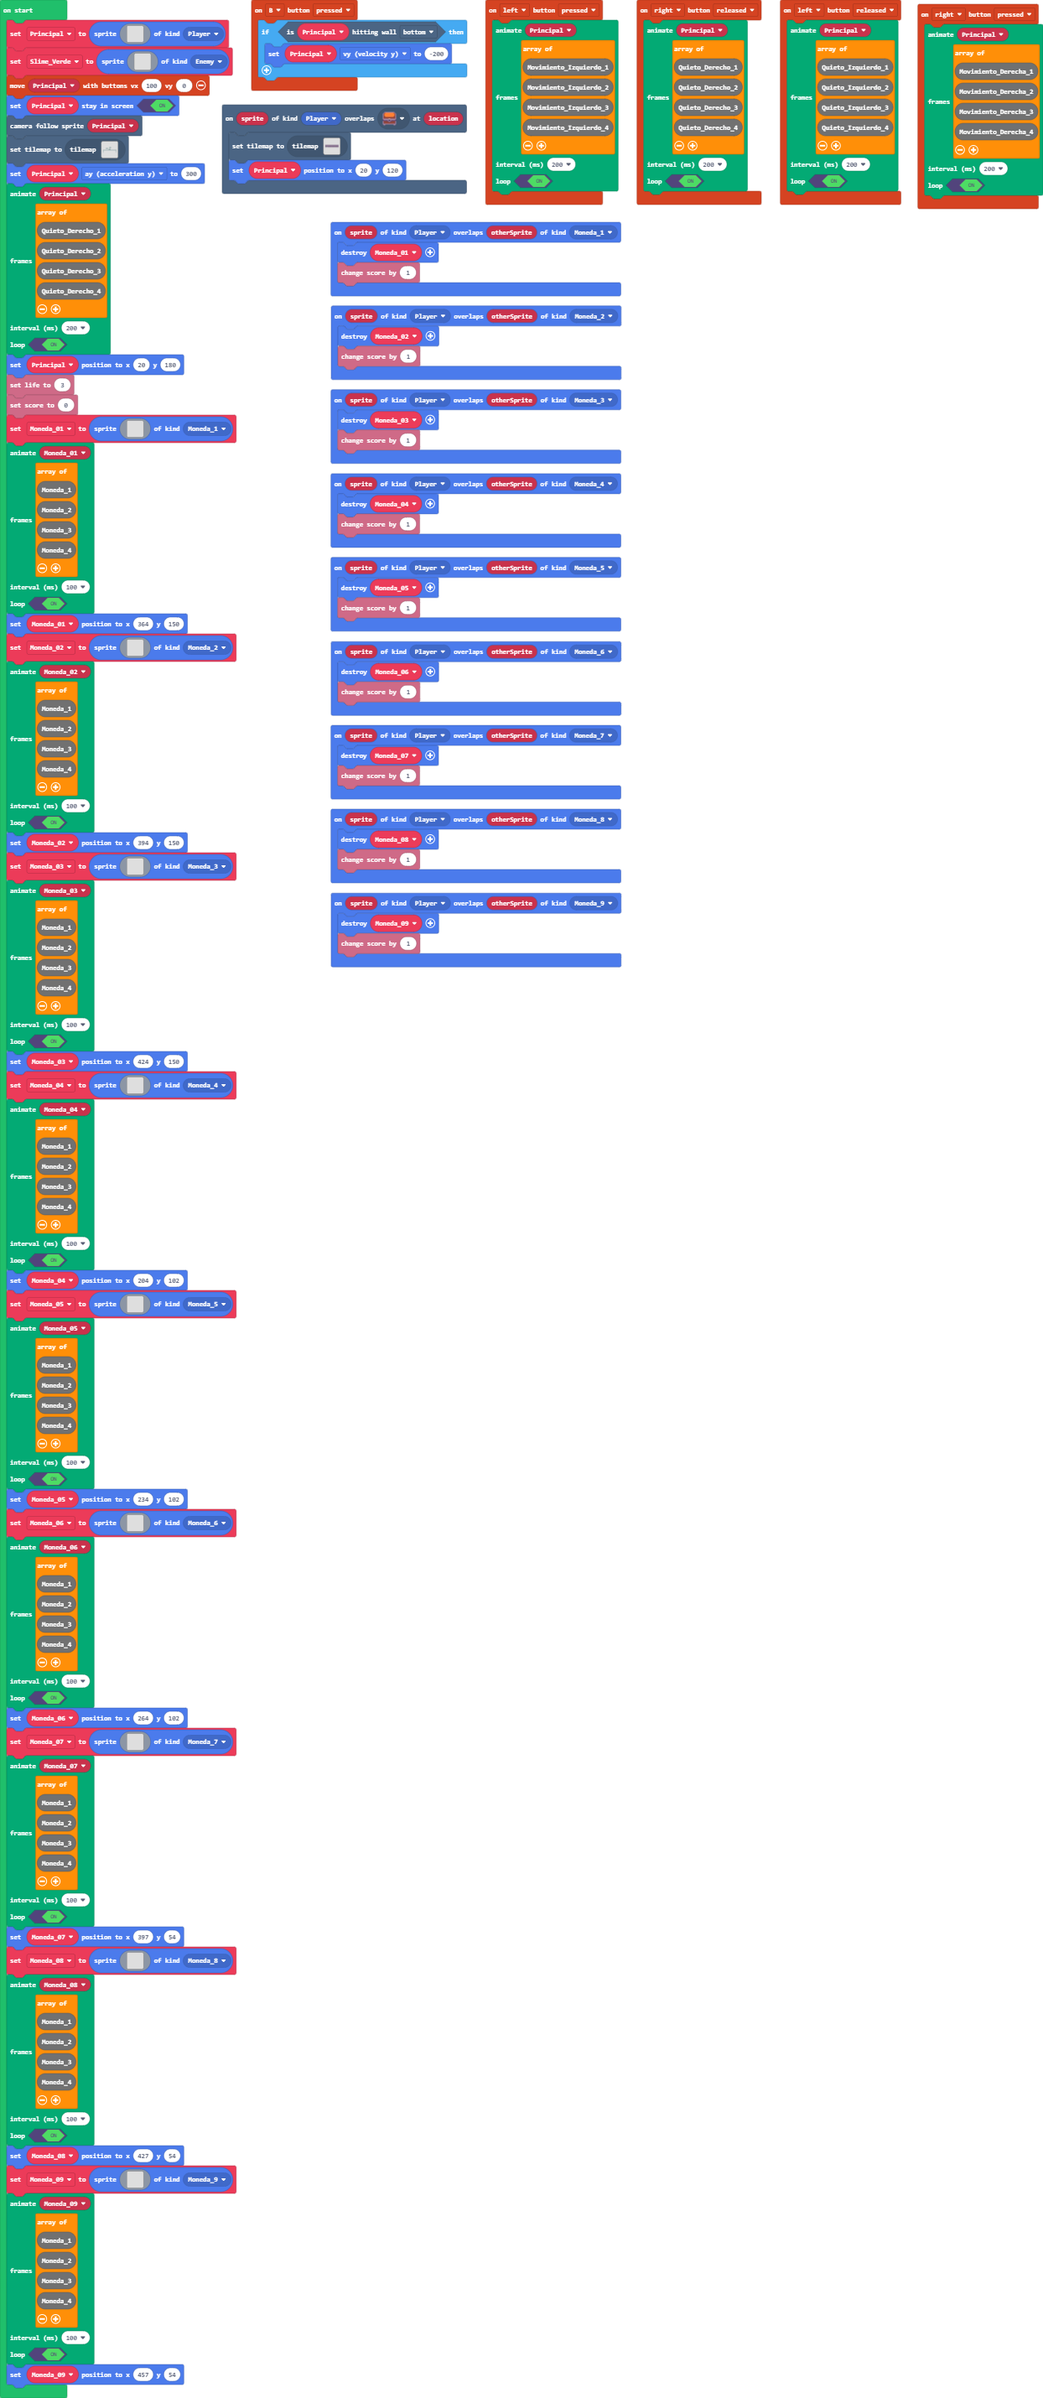
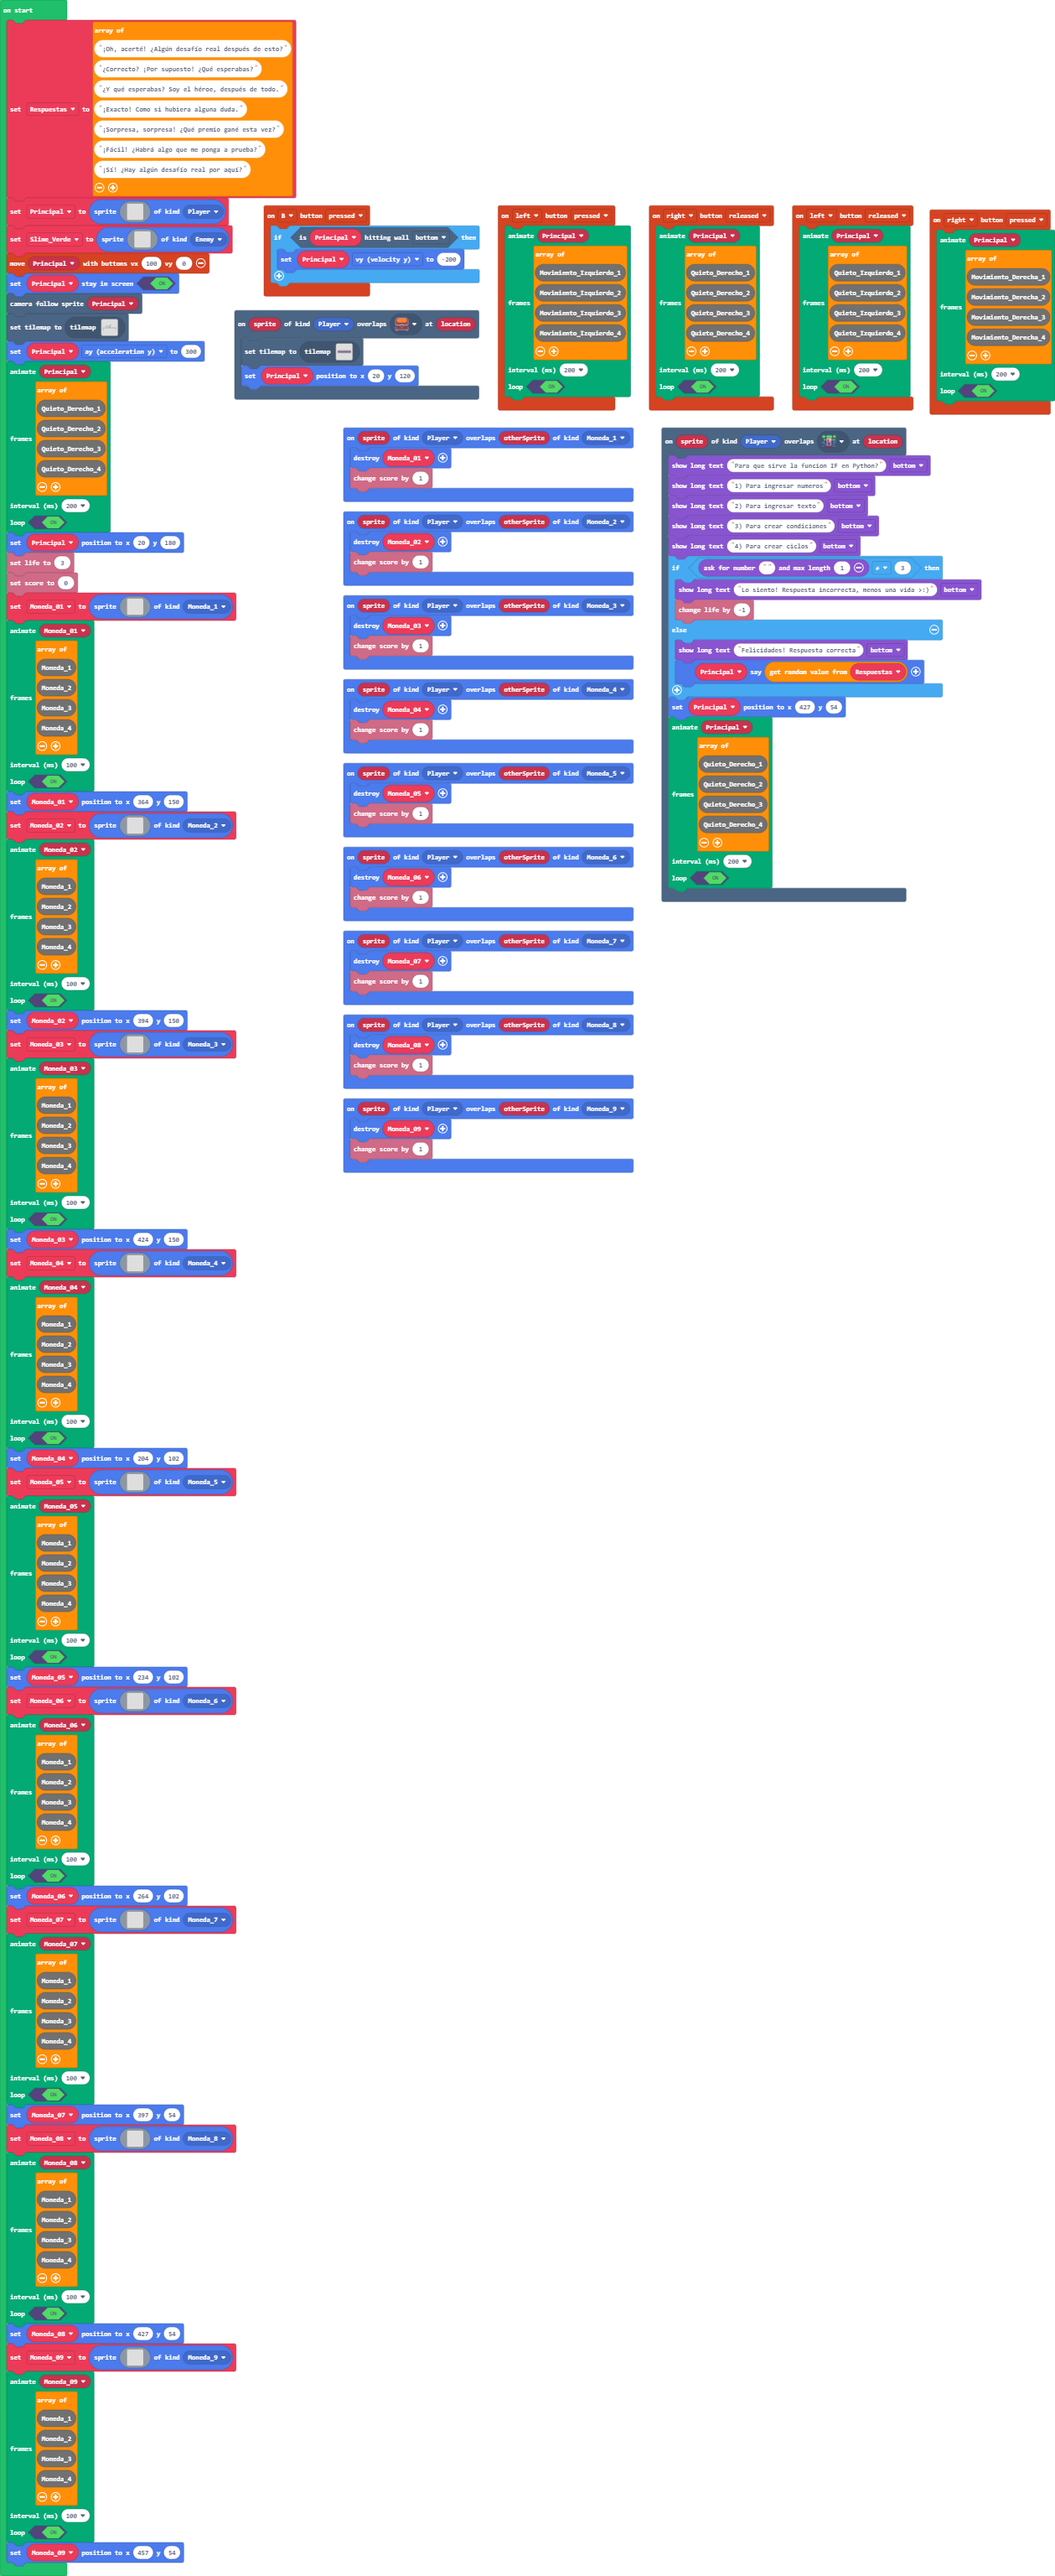
Update main.blocks, main.ts, tilemap.g.jres, tilemap.g.ts

Changed region(s): [[0.0, 0.0, 1.0, 0.9958]]

diff --git a/tilemap.g.ts b/tilemap.g.ts
@@ -179,7 +179,7 @@ namespace myTiles {
 . . . . . . . . . . . . . . . . 
 `, [myTiles.transparency16], TileScale.Sixteen);
             case "Nivel 1":
[2 lines of base64/hex data omitted]
 ..................................................
 ..................................................
 ..................................................

diff --git a/main.ts b/main.ts
@@ -14,6 +14,32 @@ controller.B.onEvent(ControllerButtonEvent.Pressed, function () {
         Principal.vy = -200
     }
 })
+scene.onOverlapTile(SpriteKind.Player, sprites.dungeon.greenSwitchUp, function (sprite, location) {
+    game.showLongText("Para que sirve la funcion IF en Python?", DialogLayout.Bottom)
+    game.showLongText("1) Para ingresar numeros", DialogLayout.Bottom)
+    game.showLongText("2) Para ingresar texto", DialogLayout.Bottom)
+    game.showLongText("3) Para crear condiciones", DialogLayout.Bottom)
+    game.showLongText("4) Para crear ciclos", DialogLayout.Bottom)
+    if (game.askForNumber("", 1) != 3) {
+        game.showLongText("Lo siento! Respuesta incorrecta, menos una vida >:)", DialogLayout.Bottom)
+        info.changeLifeBy(-1)
+    } else {
+        game.showLongText("Felicidades! Respuesta correcta", DialogLayout.Bottom)
+        Principal.sayText(Respuestas._pickRandom())
+    }
+    Principal.setPosition(427, 54)
+    animation.runImageAnimation(
+    Principal,
+    [
+    Quieto_Derecho_1,
+    Quieto_Derecho_2,
+    Quieto_Derecho_3,
+    Quieto_Derecho_4
+    ],
+    200,
+    true
+    )
+})
 sprites.onOverlap(SpriteKind.Player, SpriteKind.Moneda_3, function (sprite, otherSprite) {
     sprites.destroy(Moneda_03)
     info.changeScoreBy(1)
@@ -116,6 +142,16 @@ let Moneda_03: Sprite = null
 let Moneda_02: Sprite = null
 let Moneda_01: Sprite = null
 let Principal: Sprite = null
+let Respuestas: string[] = []
+Respuestas = [
+"¡Oh, acerté! ¿Algún desafío real después de esto?",
+"¿Correcto? ¡Por supuesto! ¿Qué esperabas?",
+"¿Y qué esperabas? Soy el héroe, después de todo.",
+"¡Exacto! Como si hubiera alguna duda.",
+"¡Sorpresa, sorpresa! ¿Qué premio gané esta vez?",
+"¡Fácil! ¿Habrá algo que me ponga a prueba?",
+"¡Sí! ¿Hay algún desafío real por aquí?"
+]
 Principal = sprites.create(img`
     . . . . . . . . . . . . . . . . 
     . . . . . . . . . . . . . . . . 
